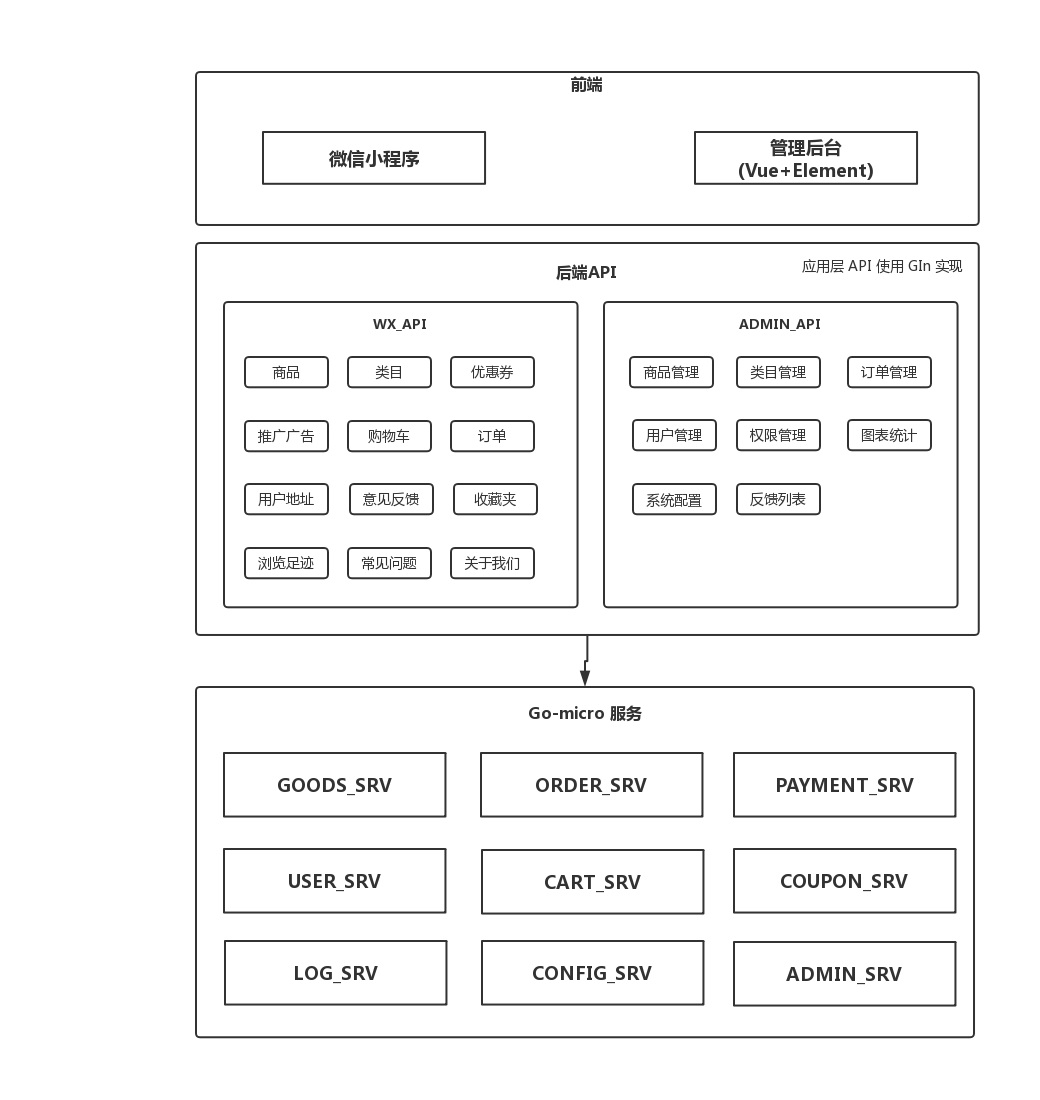
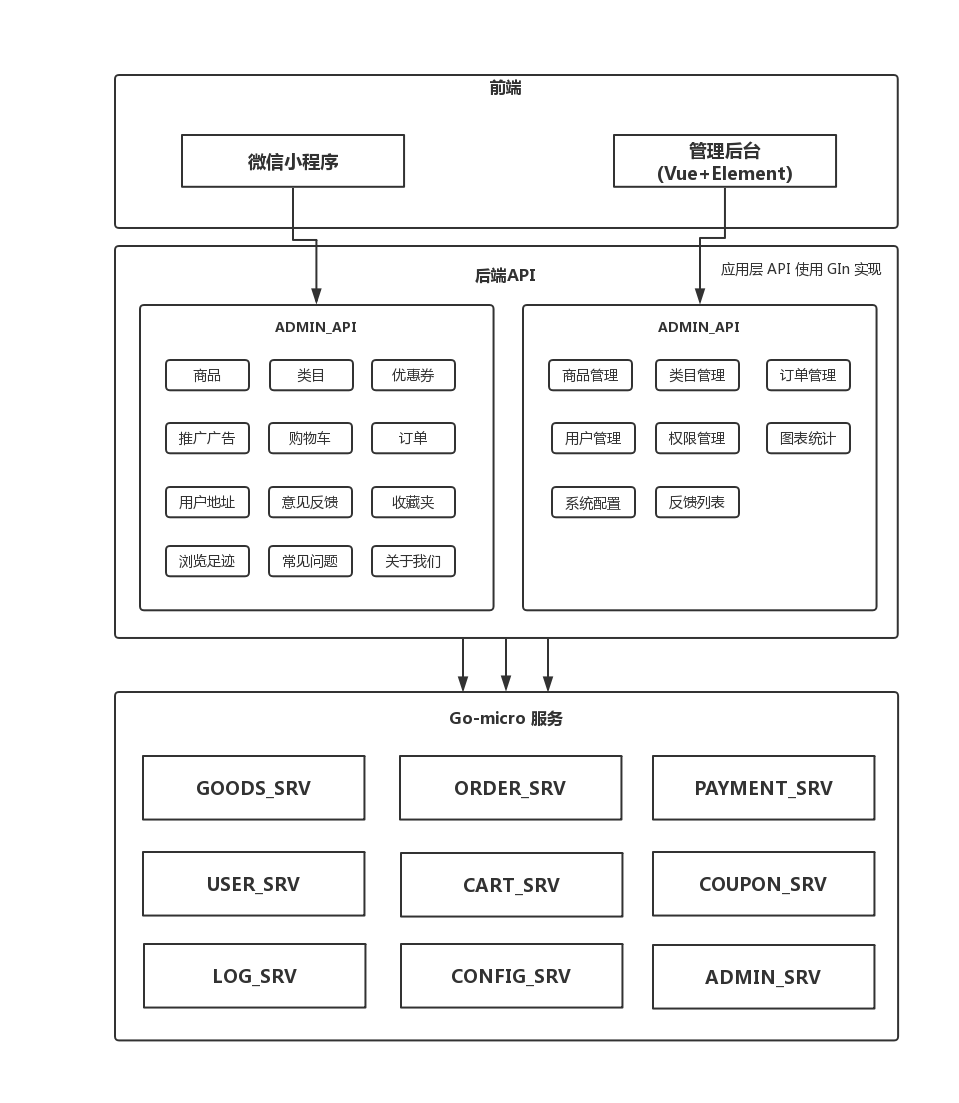
补充doc文档

diff --git a/README.md b/README.md
@@ -1,1 +1,5 @@
 # easy-mall
+
+基于 golang 实现一个简单的小程序商城
+
+- [设计文稿](./easy-mall-doc/DESIGN.md)
